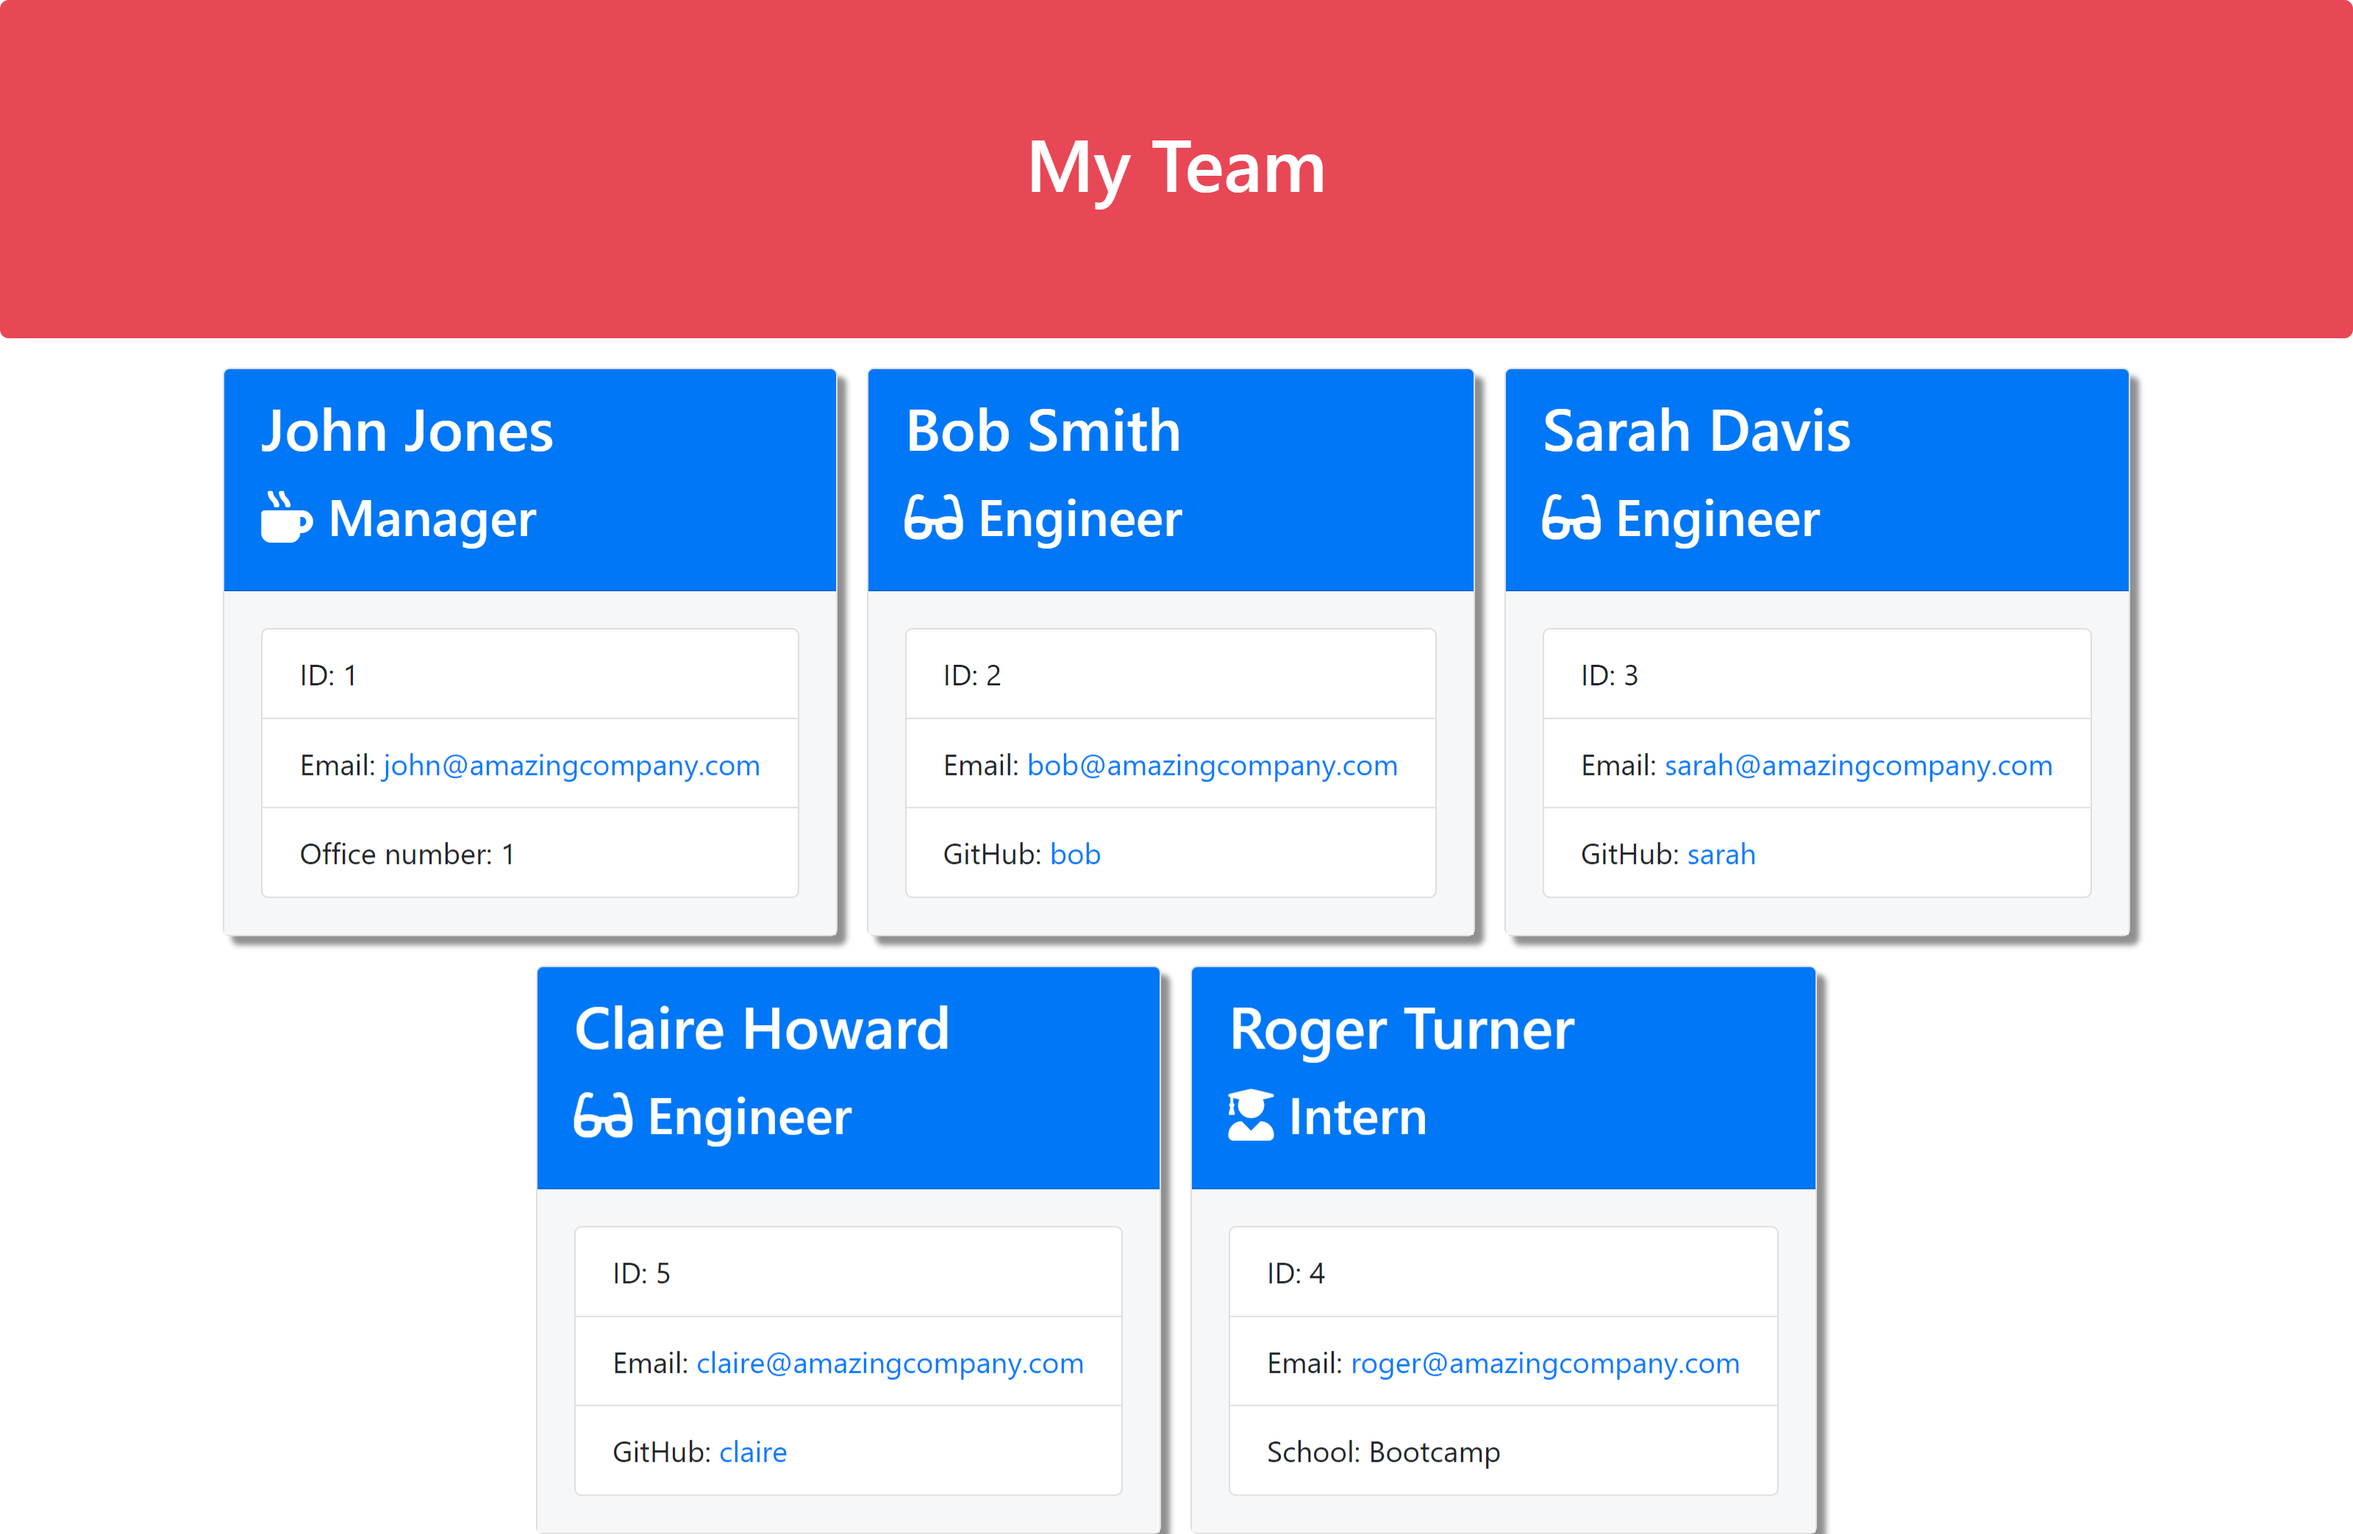
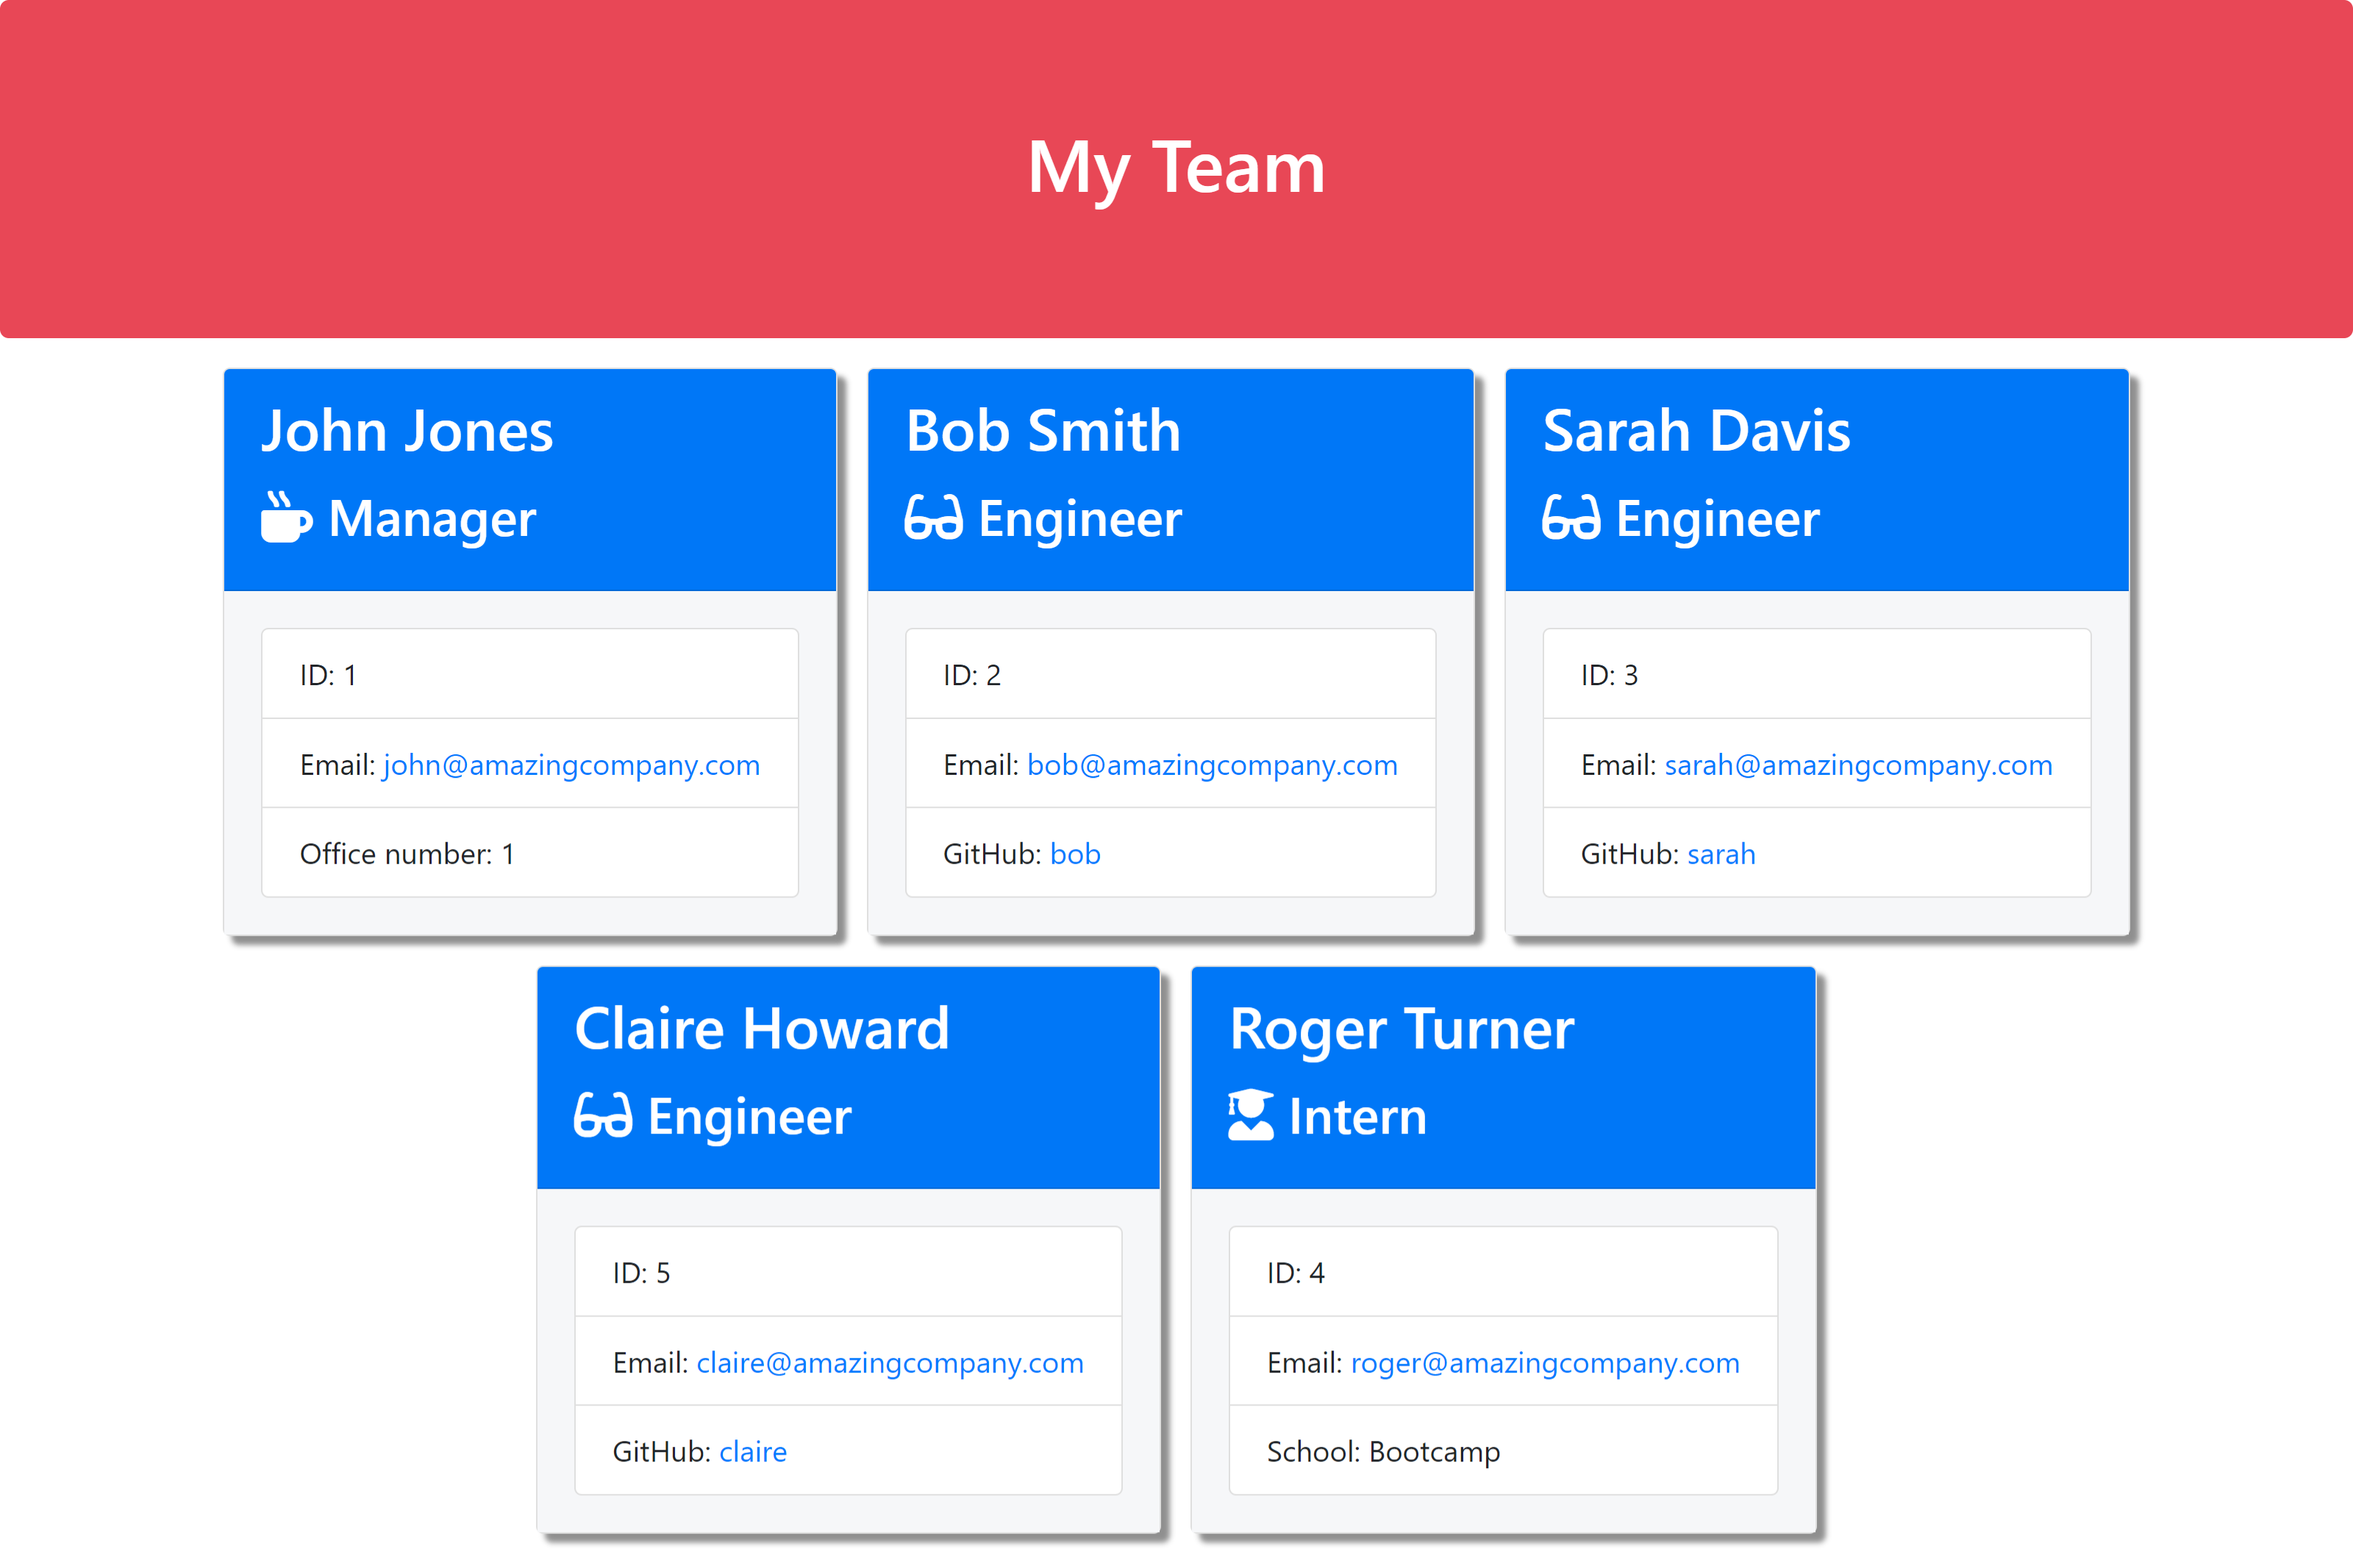
jest added to readme, style updated to add margin to bottom of page

diff --git a/output/style.css b/output/style.css
@@ -5,6 +5,7 @@
 
 .team-area {
   gap: 1rem;
+  margin-bottom: 1rem;
 }
 
 .employee-card {

diff --git a/README.md b/README.md
@@ -8,6 +8,7 @@ This program asks a serious of questions about a manager and their engineers/int
 
 - Javascript / Node
 - Inquirer
+- Jest
 
 ## Screenshot of Generated Website
 
